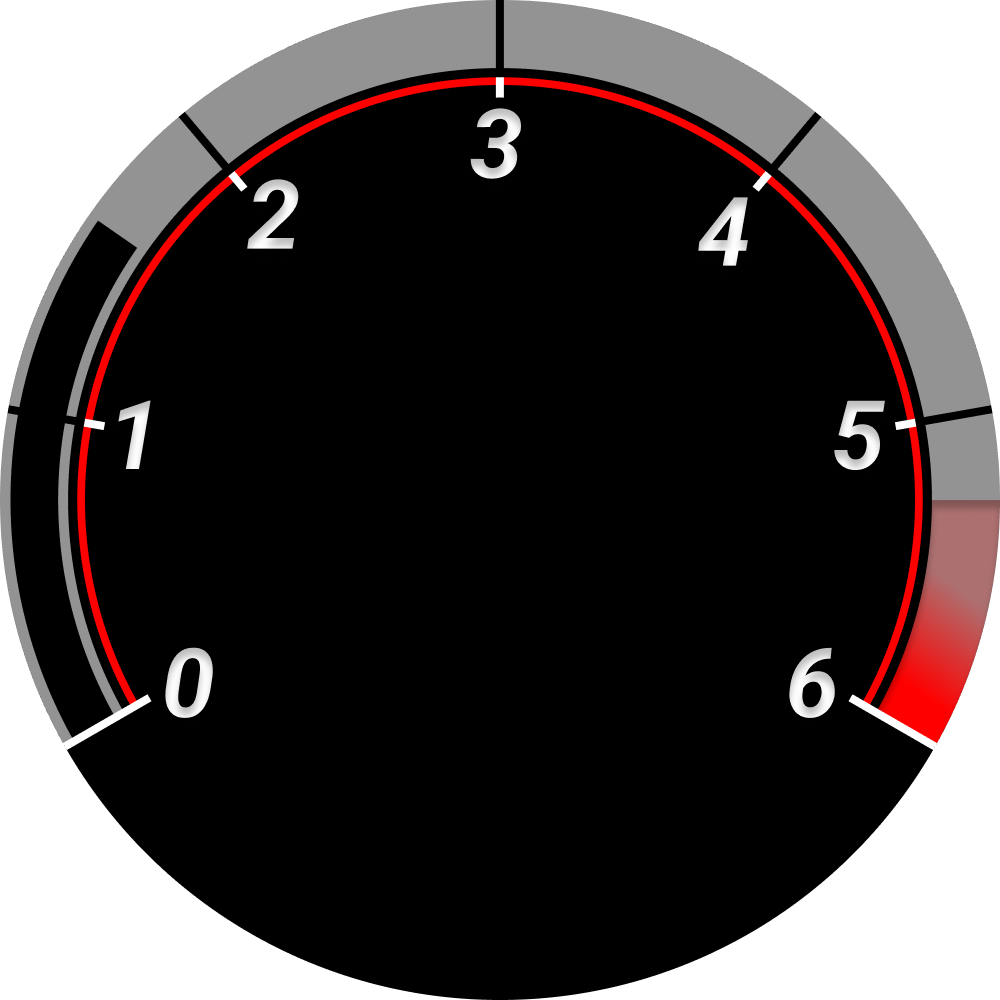
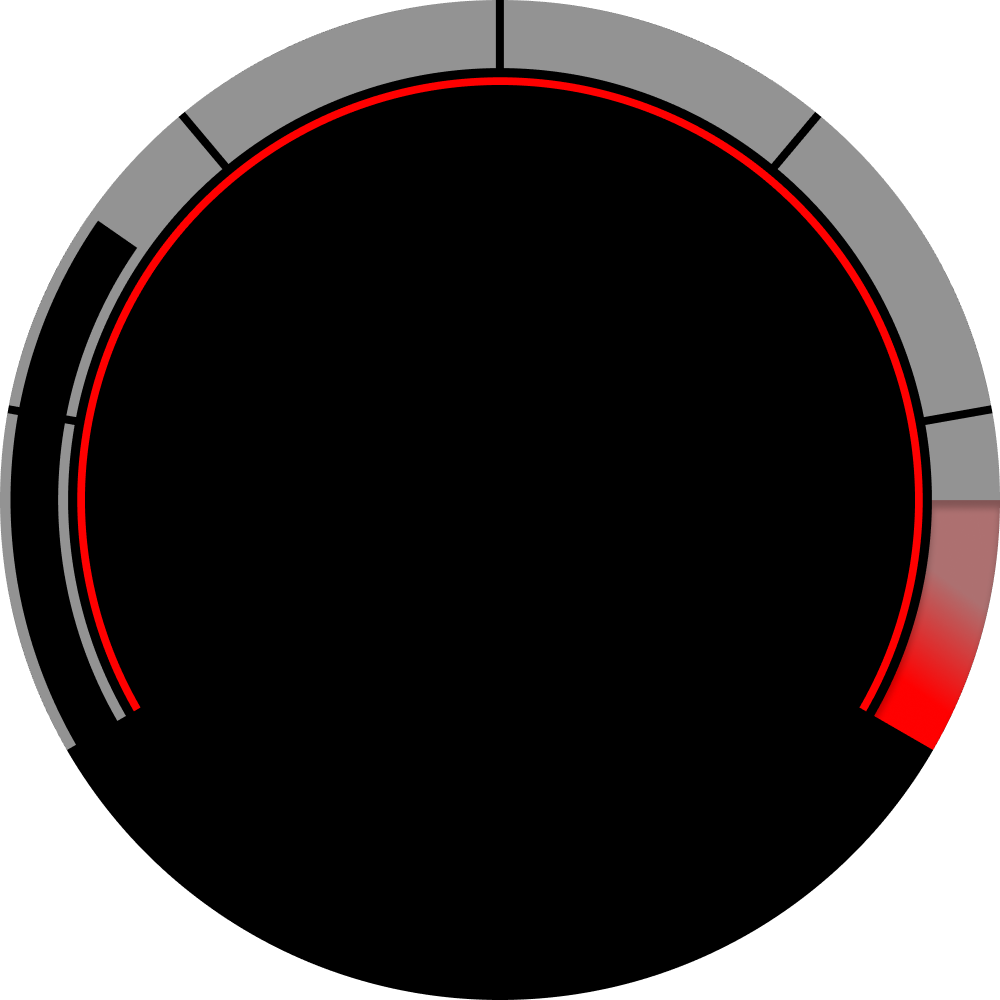
Working dynamic sweep

diff --git a/src/dashboard.cc b/src/dashboard.cc
@@ -141,6 +141,7 @@ namespace assets {          //this order follows the design order bottom-up
     SDL_Texture *sweep;
     array<SDL_Texture *, 10> speedometer_digits;
     SDL_Texture *speedometer_unit;
+    SDL_Texture *headup;
 }
 
 /*
@@ -157,7 +158,9 @@ void clear_render_context(SDL_Renderer * &renderer) {
  */
 SDL_Texture *load_optimized_asset(SDL_Renderer * &renderer, const char *path) {
     SDL_Texture *texture = IMG_LoadTexture(renderer, path);
-    assert(texture);
+    if(!texture) {
+        printf("%s\n", SDL_GetError());
+    }
 
     SDL_SetTextureBlendMode(texture, SDL_BLENDMODE_BLEND);
 
@@ -193,6 +196,8 @@ void load_assets(SDL_Renderer * &renderer) {
     assets::sweep = load_optimized_asset(renderer, "assets/sweep.png");
 
     assets::speedometer_unit = load_optimized_asset(renderer, "assets/speedometer/KMH.png");
+
+    assets::headup = load_optimized_asset(renderer, "assets/headup.png");
 }
 
 void draw_base(SDL_Renderer * &renderer) {
@@ -211,30 +216,126 @@ SDL_Texture *create_canvas_texture(SDL_Renderer * &renderer) {
     return t;
 }
 
-void draw_sweep(SDL_Renderer * &renderer, int rpm) {
-    static SDL_Texture *clip_sweep = create_canvas_texture(renderer);
-
-    int angle = static_cast<int>(needle_angle(rpm));
-    int quadrant = (angle + 90) / 90;
-
-    SDL_Rect clip = {
-        .x = 0,
-        .y = WINDOW_HEIGHT / 2,
+void get_clip_for_quadrant(SDL_Rect &clip, int quadrant) {
+    clip = {
+        .x = quadrant < 2 ? 0 : WINDOW_WIDTH / 2,
+        .y = (quadrant == 0 || quadrant == 3) ? WINDOW_HEIGHT / 2 : 0,
         .w = WINDOW_WIDTH / 2,
-        .h = WINDOW_HEIGHT / 2
+        .h =  WINDOW_HEIGHT / 2
     };
+}
 
+void copy_clipped_sweep_on_canvas(SDL_Renderer * &renderer, SDL_Texture * &canvas, SDL_Rect &clip) {
     // Set clip sweep as current render target, and clear it
-    SDL_SetRenderTarget(renderer, clip_sweep);
-    clear_render_context(renderer);
-    
+    SDL_SetRenderTarget(renderer, canvas);
+
     // Copy sweep base into texture
-    SDL_RenderCopy(renderer, assets::sweep, &clip, NULL);
+    SDL_RenderSetClipRect(renderer, &clip);
+    SDL_RenderCopy(renderer, assets::sweep, NULL, NULL);
 
     //Reset drawing target to window context
     SDL_SetRenderTarget(renderer, nullptr);
+}
 
-    //Render texture onto window
+void getMaskForQuadrant(int angle, int quadrant, int16_t tx[], int16_t ty[]) {
+    static const float radius = WINDOW_HEIGHT / 2;
+    float rad_angle = angle * M_PI / 180;
+    switch(quadrant) {
+        case 0:
+            tx[0] = WINDOW_WIDTH/2, ty[0] = WINDOW_HEIGHT/2;
+            tx[1] = WINDOW_WIDTH/2, ty[1] = WINDOW_HEIGHT;
+            tx[2] = 0, ty[2] = WINDOW_HEIGHT;
+            tx[3] = 0, ty[3] = WINDOW_HEIGHT/2 - radius * tan(rad_angle);
+            break;
+        case 1:
+            tx[0] = WINDOW_WIDTH/2, ty[0] = WINDOW_HEIGHT/2;
+            tx[1] = 0, ty[1] = WINDOW_HEIGHT/2;
+            tx[2] = 0, ty[2] = 0;
+            tx[3] = angle < 45 ? 0 : WINDOW_WIDTH/2 - radius / tan(rad_angle), ty[3] = angle < 45 ? WINDOW_HEIGHT/2 - radius * tan(rad_angle) : 0;
+            break;
+        case 2:
+            tx[0] = WINDOW_WIDTH/2, ty[0] = WINDOW_HEIGHT/2;
+            tx[1] = WINDOW_WIDTH/2, ty[1] = 0;
+            tx[2] = WINDOW_WIDTH, ty[2] = 0;
+            tx[3] = angle < 135 ? WINDOW_WIDTH/2 - radius / tan(rad_angle) : WINDOW_WIDTH, ty[3] = angle < 135 ? 0 : WINDOW_HEIGHT/2 + radius * tan(rad_angle);
+            break;
+        case 3:
+            tx[0] = WINDOW_WIDTH/2, ty[0] = WINDOW_HEIGHT/2;
+            tx[1] = WINDOW_WIDTH, ty[1] = WINDOW_HEIGHT/2;
+            tx[2] = WINDOW_WIDTH, ty[2] = WINDOW_HEIGHT/2 + radius * tan(rad_angle);
+            tx[3] = WINDOW_WIDTH/2, ty[3] = WINDOW_HEIGHT/2;
+            break;
+    }
+}
+
+void prepareMask(SDL_Renderer * &renderer, SDL_Texture * &mask, int angle, int quadrant) {
+    // Draw the last part of the sweep with masking
+    SDL_SetRenderTarget(renderer, mask);
+    SDL_SetRenderDrawColor(renderer, 0, 0, 0, 0);
+    SDL_RenderFillRect(renderer, nullptr);
+
+    //The coordinates already refer to a WINDOW_WIDTH * WINDOW_HEIGHT canvas
+    int16_t tx[4], ty[4];
+    getMaskForQuadrant(angle, quadrant, tx, ty);
+    filledPolygonColor(
+        renderer,
+        tx,
+        ty,
+        4,
+        0xffffffff
+    );
+    SDL_SetRenderTarget(renderer, nullptr);
+}
+
+
+void draw_sweep(SDL_Renderer * &renderer, int rpm) {
+    int angle = static_cast<int>(needle_angle(rpm));
+    int quadrant = (angle + 90) / 90;
+
+    
+    // Draw the part of sweep that don't require masking
+    SDL_Rect clip;
+    for(int i=0; i<quadrant; i++) {
+        SDL_Texture *quad_texture = create_canvas_texture(renderer);
+
+        // Copy sweep on canvas
+        get_clip_for_quadrant(clip, i);
+        copy_clipped_sweep_on_canvas(renderer, quad_texture, clip);
+
+        //  Then copy it on the actual renderer
+        SDL_RenderCopy(renderer, quad_texture, NULL, NULL);
+    }
+    
+
+    static SDL_Texture *clip_sweep = create_canvas_texture(renderer);
+    static SDL_Texture *mask = create_canvas_texture(renderer);
+    SDL_SetTextureBlendMode(
+        mask,
+        SDL_ComposeCustomBlendMode(
+            SDL_BLENDFACTOR_ZERO,   //src*0
+            SDL_BLENDFACTOR_SRC_COLOR,  //dst*src
+            SDL_BLENDOPERATION_ADD,  //dst*src+src*0 = dst*src
+            SDL_BLENDFACTOR_ZERO,
+            SDL_BLENDFACTOR_SRC_ALPHA,
+            SDL_BLENDOPERATION_ADD
+        )
+    );
+    //SDL_SetTextureBlendMode(clip_sweep, SDL_BLENDMODE_MOD);
+
+    prepareMask(renderer, mask, angle, quadrant);
+
+    SDL_SetRenderTarget(renderer, clip_sweep);
+    SDL_SetRenderDrawColor(renderer, 0, 0, 0, 0);
+    SDL_RenderFillRect(renderer, nullptr);
+    SDL_Rect quadclip;
+    get_clip_for_quadrant(quadclip, quadrant);
+
+    // Copy sweep base into texture
+    SDL_RenderCopy(renderer, assets::sweep, nullptr, nullptr);
+    SDL_RenderCopy(renderer, mask, nullptr, nullptr);
+
+    SDL_SetRenderTarget(renderer, nullptr);
+
     SDL_RenderCopy(renderer, clip_sweep, NULL, NULL);
 };
 
@@ -286,6 +387,11 @@ void draw_speedometer(SDL_Renderer * &renderer, int rpm) {
     SDL_RenderCopyF(renderer, speedometer_unit, NULL, &speed_unit_target);
 }
 
+void draw_headup(SDL_Renderer * &renderer) {
+    static SDL_Rect base_pos = {.x=0, .y=0, .w=500, .h=500};
+    SDL_RenderCopy(renderer, assets::headup, NULL, &base_pos);
+}
+
 int main() {
 
     /* SDL object reference */
@@ -313,11 +419,10 @@ int main() {
         SDL_SetRenderDrawColor(renderer, 0x00, 0x00, 0x00, 0xff);
         SDL_RenderClear(renderer);
 
-        //draw_base(renderer);
+        draw_base(renderer);
 
         draw_sweep(renderer, revs);
-
-    /*
+        draw_headup(renderer);
         draw_needle(renderer, revs);
         if(revving) rev_up();
         else        rev_down();
@@ -326,7 +431,6 @@ int main() {
 
         SDL_RenderPresent(renderer);
         SDL_Delay(16);  //60 fps
-    */
     }
 
 
